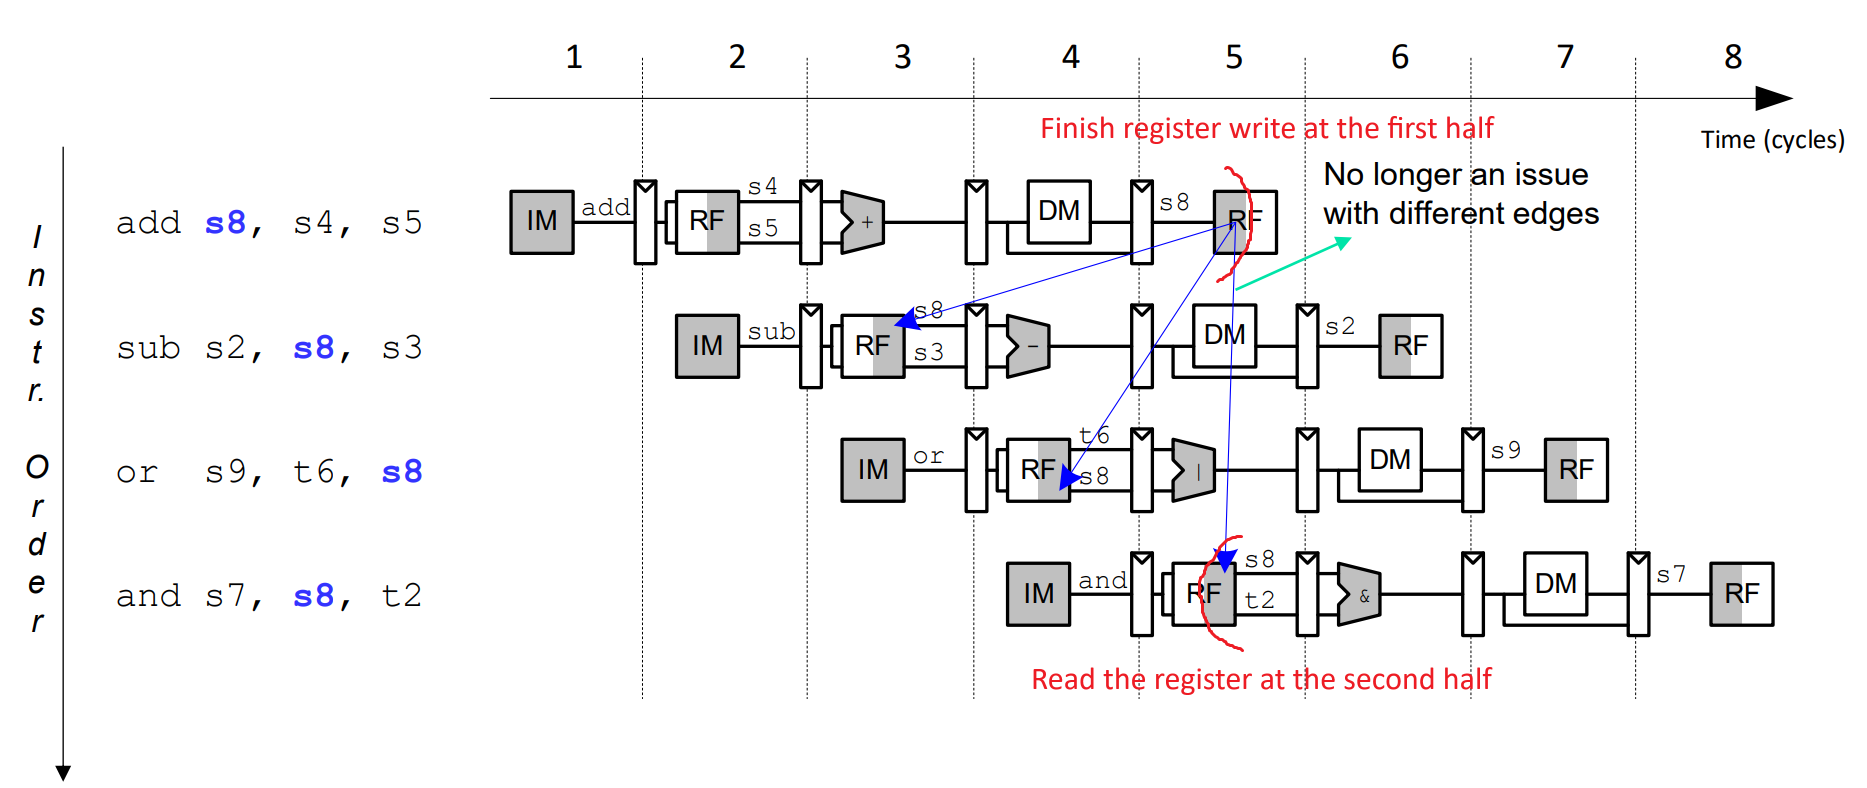
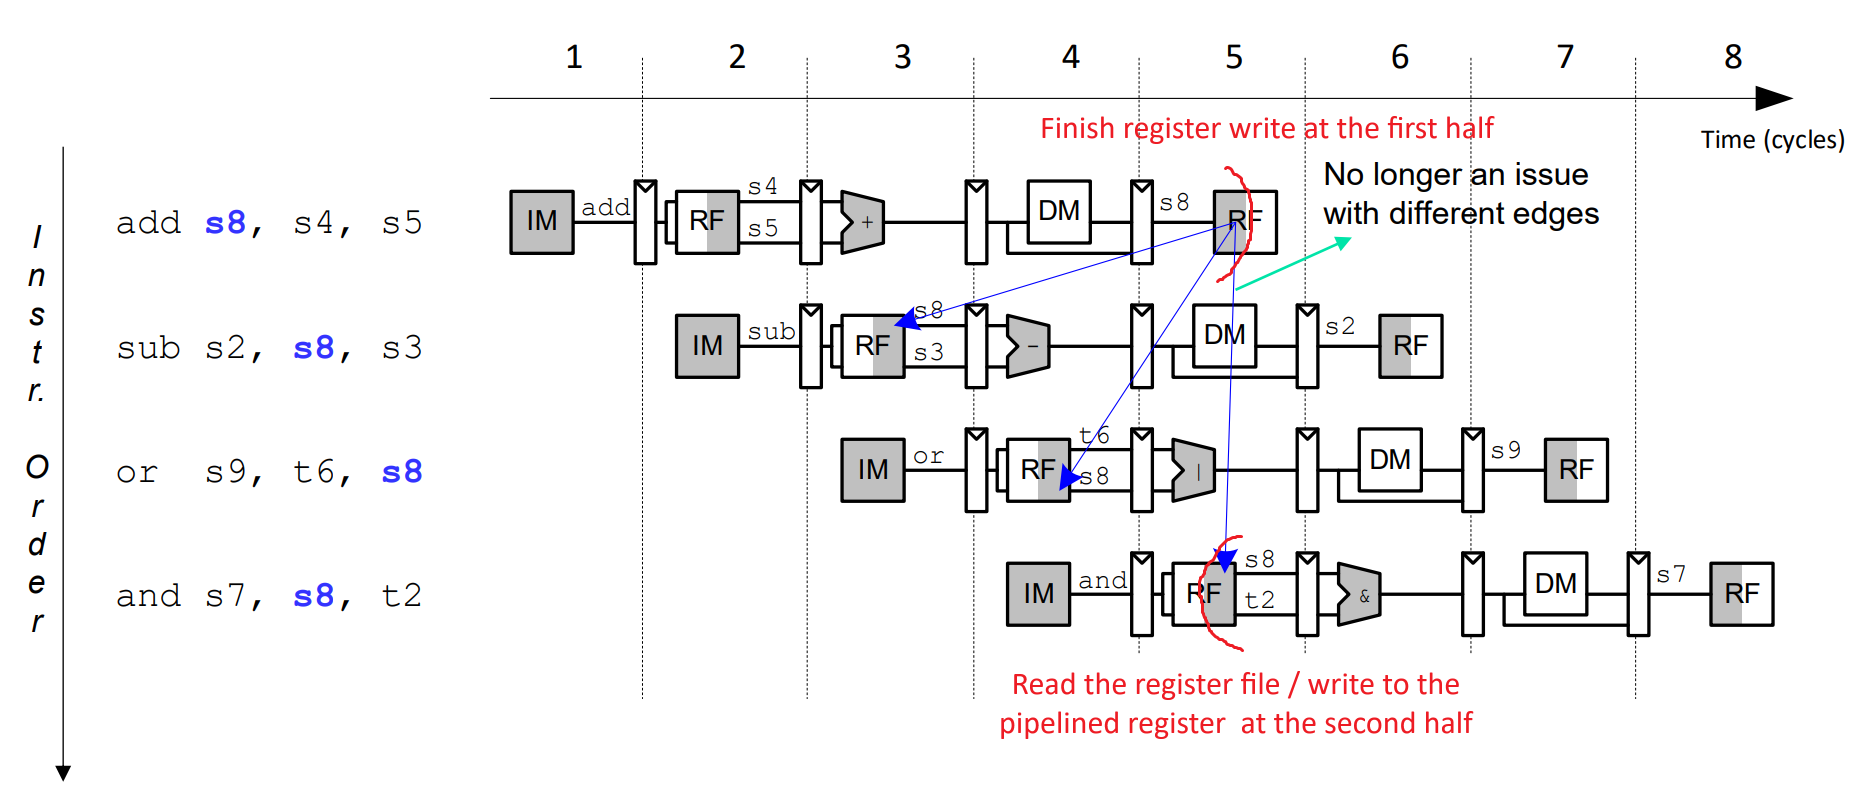
GITBOOK-132: Update first part of data forwarding

Changed region(s): [[0.5281, 0.8528, 0.8077, 0.9442]]

diff --git a/lec/lec-05-the-pipelined-processor.md b/lec/lec-05-the-pipelined-processor.md
@@ -47,7 +47,7 @@ Here, we cannot change IC and CPI, how can we improve the performance? The answe
 
 > In this course, we will use a five-stage pipeline on our processor.
 
-**Pipeling** is to "cut" our microarchitecture[^1] into different **stages** (in our case, it is 5), and each stage takes **one clock cycle** to complete. Thus, the clock cycle time can be decreased largely.
+**Pipelining** is to "cut" our microarchitecture[^1] into different **stages** (in our case, it is 5), and each stage will take **one clock cycle** to complete. Thus, the clock cycle time can be decreased to a large extent.
 
 For example, below is the image showing the fives stages of the `lw` instruction.
 
@@ -69,7 +69,7 @@ After pipelining our processor, the clock cycle diagram to execute the instructi
 
 We can see that after the completion of the clock cycle 5, one instruction is completed every cycle, thus CPI = 1. We also call the first 4 cycles **overhead** as nothing completes during this time.
 
-However, this pipeline isn't perfect, you may notice that **not every instruction** needs the **full 5 stages**. For example, `sw` don't need `WB`, branch and DP Reg/Imm don't need `Mem`, etc. Besides that, there are still some **hazards** we may encouter. (We will see later in this lec)
+However, this pipeline isn't perfect, you may notice that **not every instruction** needs the **full 5 stages**. For example, `sw` doesn't need `WB`, branch and DP Reg/Imm doesn't need `Mem`, etc. Besides, there are still some **hazards** that we may encouter. (We will see later in this lec)
 
 <details>
 
@@ -85,7 +85,7 @@ The reason for this is because in the pipelined processor, your clock cycle time
 
 ## Implement a Pipelined Processor
 
-As we have mentioned above, we need to "cut" our microarchitecture into 5 stages. To do this "cut", we are actually **adding registers** between each stage.
+As we have mentioned above, we need to "cut" our microarchitecture into 5 stages. To do this "cut", we are basically **adding registers** between each stage.
 
 <figure><img src="../.gitbook/assets/cg3207-lec05-implement-cut.jpg" alt=""><figcaption></figcaption></figure>
 
@@ -94,7 +94,7 @@ We have 5 stages, thus we need 4 "cuts"/registers. By adding registers, we can c
 {% hint style="success" %}
 #### Pipeline Register Naming Convention
 
-We name the register by the **target** that it feeds the signal to. For example, the register D is named D because the here the signals coming from the **source** fetch stage go into the **target** dec stage.
+We name the register by the **target** that it feeds the signal to. For example, the register D is named D because the here the signals coming from the **source** fetch stage will go into the **target** dec stage.
 {% endhint %}
 
 The smart you may notice that besides adding 4 registers, we also made some changes to some signals.
@@ -107,7 +107,7 @@ The smart you may notice that besides adding 4 registers, we also made some chan
 
 Several signals, like `RegWrite`, `MemtoReg` etc are delayed. Their names are also changed at each stage by adding the posfix `F, D, E, M, W` depends on which stage the signals are at.
 
-We can think of this delay as, after we "cut" the microarchitecture, we still need to "store" the corresponding Control Unit Signals and the Datapath signals to make sure that the operation done in **each stage** works correctly.
+We can think of this delay as, after we "cut" the microarchitecture, we still need to "store" the corresponding Control Unit signals and the Datapath signals to make sure that the operation done in **each stage** works correctly.
 {% endstep %}
 
 {% step %}
@@ -148,7 +148,7 @@ Pipelining is not perfect, sometimes it can get into troubles. These troubles ar
 
 **Structural harzards** happen when we attempt to use the same resource (usually it is the memory) by two different instructions at the same time.
 
-For example, in the following diagram, at the fourth clock cycle, both the `lw` and `sw` are accessing the same memory as in real life, IROM and DMEM are both in the RAM memory.
+For example, in the following diagram, at the fourth clock cycle, both the `lw` and `sw` are accessing the same memory because in real life, IROM and DMEM are both in the RAM memory.
 
 <figure><img src="../.gitbook/assets/cg3207-lec05-structural-hazard.png" alt=""><figcaption></figcaption></figure>
 
@@ -162,15 +162,15 @@ For example, in the following diagram, the destination register `rd` of the `add
 
 #### Control Hazards
 
-### Handle Pipeline Hazards
+## Handle Pipeline Hazards
 
 In this part, we will introduce how to handle the 3 types of pipeline harzards we have encountered above. As for the sake of this course, we will focus more on the [handling of the data hazards](lec-05-the-pipelined-processor.md#handle-data-hazards).
 
-#### Handle Structural Hazards
+### Handle Structural Hazards
 
 We can simply fix this hazard by using separate instruction and data memory.
 
-#### Handle Data Hazards
+### Handle Data Hazards
 
 To handle data harzards, we will introduce five methods,
 
@@ -196,19 +196,19 @@ Given that, we will summarize the pros and cons of this technique as follows,
   * This technique can help reduce the "troublesome" instructions from 3 to 2 in our example [above](lec-05-the-pipelined-processor.md#data-hazards).
 * **Cons**:
   * It will use 2 edges from the same block and this is a practice discouraged in [CG3207.](https://wenbo-notes.gitbook.io/ddca-notes/lec/lec-02-digital-system-design-and-verilog#use-one-clock-for-the-entire-design)
-  * The half cycle may not be enough for to write the pipeline state register. In other words, reading the value from the register file and write it to a pipeline state register may take longer than half of a clock cycle.
+  * The half cycle may not be enough to write the pipeline state register. In other words, reading the value from the register file and write it to a pipeline state register may take longer than half of a clock cycle.
 
 #### Inserting NOPS
 
 > In RISC-V, we can use `addi x0, x0, 0` as NOP.
 
-The basic idea is that as there exists true data dependency, we can insert NOPs between the instructions that have true data dependency to "delay" the data dependency. So, if we have already implemented the [first technique of using different clock edges](lec-05-the-pipelined-processor.md#use-different-clock-edges), we should make sure the number of NOPs or independent useful instructions is **2** between the two instructions that have true data dependency.
+The basic idea is that when there exists true data dependency between two instructions, we can insert NOPs between the these instructions to "delay" the data "transfer". So, if we have already implemented the [first technique of using different clock edges](lec-05-the-pipelined-processor.md#use-different-clock-edges), we should make sure the number of NOPs or independent useful instructions is **2** between the two instructions that have true data dependency.
 
 {% hint style="warning" %}
-This magic number 2 is dependent on the microarchitecture of our processor.
+This magic number 2 here is dependent on the microarchitecture of the processor. In other words, how many pipline stages you have in your processor.
 {% endhint %}
 
-For example, in the following diagram, `add` and `sub` have true data dependency. We can either insert two NOPs between `add` and `sub` or replace one of the NOPs with the independent useful instruction `orr` instruction.
+For example, in the following diagram, `add` and `sub` have true data dependency. We can either insert two NOPs between `add` and `sub` or replace one of the NOPs with the independent useful instruction `orr`.
 
 <figure><img src="../.gitbook/assets/cg3207-lec05-inserting-nops-example.png" alt=""><figcaption></figcaption></figure>
 
@@ -218,9 +218,75 @@ Now, we can summarize the pros and cons of this technique
   * It is easier to implement as the NOPs are inserted by the compiler during the compile time.
 * **Cons**:
   * Insert NOPs will **waste code memory**.
-  * As NOPs will do nothing, we won't treat them as real instructions when calculating the CPI. Thus,  with more clock cycles and the same number of useful instructions, the **CPI will increase** and thus increase our CPU Time.
+  * As NOPs will do nothing, we won't treat them as real instructions when calculating the CPI. Thus, with more clock cycles and the same number of useful instructions, the **CPI will increase** and thus increase our CPU Time.
   * To know the number of NOPs or independant useful instructions to be inserted, the compiler needs to know the microarchitecture, like how many stages are in your pipeline processor and have you used different clock edges to write to register file and pipeline state registers, etc. This will make the code not very **portable**.
+
+#### Data Forwarding
+
+> This is the most challenging technique when we deal with the data hazard.
+
+The basic idea in data forwarding is that the data is available on some pipeline register before it is written back to the register file (RF). So, we can take that data from where it is present, and pass it to where it is needed.
+
+This kind of forwarding logic can be used in two stages/functional unit:
+
+* Execution Stage, or the two sources or ALU
+* Memory Stage, or the DMEM
+
+{% stepper %}
+{% step %}
+#### Execution Stage
+
+In the execution stage, we can check if register read ([rs1E and rs2E](#user-content-fn-3)[^3]) by the instruction which is currently in Execute stage [**matches**](#user-content-fn-4)[^4] the register written ([rdM or rdW](#user-content-fn-5)[^5]) by the instruction which is currently in Memory or Writeback Stage. If so, we forward the **ready result** (usually is the ALUResult at Memory or Writeback Stage), and now the input to ALU comes from M or W stage rather than the E stage register.
+
+For example, we can see how the above forward logic works in the following graph,
+
+<figure><img src="../.gitbook/assets/cg3207-lec05-data-forwarding-e-stage.png" alt=""><figcaption></figcaption></figure>
+
+Suppose we have applied the [#use-different-clock-edges](lec-05-the-pipelined-processor.md#use-different-clock-edges "mention") technique, now the `add` instruction has true data dependency with the `sub` and `or` instruction.
+
+* In the `sub` instruction's E stage, we notice it needs `rs1E` to be the register `s8`. In the `add` instruction, its `rdM` in the M stage is register `s8` and it mathces with `rs1E`. Thus, we can forward  the ready ALUResult from `add` instruction's M stage to the E stage of the `sub` instruction.
+* Similarly, in the `or` instruction's E stage, it needs `rs2E` to be the register `s8`. In the `add` instruction, its `rdW` in the W stage is register `s8` and it mathces with `rs2E`. Thus, we can forward the ready ALUResult (In W stage, it is ResultW) to the E stage of the `or` instruction.
+
+To implement this fowarding logic, we will add **Hazard Unit** shown as follows in our microarchitecture to handle specifically handle the hazard.
+
+<figure><img src="../.gitbook/assets/cg3207-lec05-data-forwarding-e-stage-unit.png.jpg" alt=""><figcaption></figcaption></figure>
+
+`rs1/2E`, `rdM/W` and `RegWriteM/W` are easy to pass as the **input** to the Hazard Unit, but the **output** `ForwardA/BE` which are used to control the multiplexer for the ALU SrcA and SrcB should follow exactly the following three cases
+
+{% code lineNumbers="true" %}
+```verilog
+// rs1E
+if ((rs1E == rdM) && RegWriteM && (rdM != 0))      // Case 1
+    ForwardAE = 2'b10;
+else if ((rs1E == rdW) && RegWriteW && (rdW != 0)) // Case 2
+    ForwardAE = 2'b01;
+else                                               // Case 3
+    ForwardAE = 2'b00;
+
+// rs2E is similar, just replace rs1E with rs2E
+if ((rs1E == rdM) && RegWriteM && (rdM != 0))
+    ForwardBE = 2'b10;
+else if ((rs1E == rdW) && RegWriteW && (rdW != 0))
+    ForwardBE = 2'b01;
+else
+    ForwardBE = 2'b00;
+```
+{% endcode %}
+
+* Condition 1 is about the **match**.
+* Condition 2 `RegWriteM/W` ensures that the instruction (in our example, `add`) really **writes to the register**. If not (like `sw`, `branch`), there won't be any **data hazard**, thus no need to do data forwarding.
+* Condition 3 `rdM/W ≠ 0` ensures that we are **not forwarding** from the `x0` register as there is no need to do so.
+
+In total, we need 2 x 2 + 2 = 6, 5-bit comparators to do this data forwarding. `rs1/2E` each needs two comparators (2 x 2 = 4) and `rdM/W` needs another 2 but the can share result to another `Forward1/2E` signal.&#x20;
+{% endstep %}
+{% endstepper %}
 
 [^1]: including the Control Unit and Datapaths
 
 [^2]: Write to pipeline registers can be thought of as **reading** or **updating** the pipelined registers' values.
+
+[^3]: `rs` is different from `RD`. `rs` stores the **index** of the register we want to read, e.g., if `rs1 = 1`, means we want to read from `x1` register. However, `RD` stores the **value** that we read from `rs` index register. e.g., If `rs1 = 1`, then `RD1` will store the value in register `x1`.
+
+[^4]: "matches" just means whether `rs1E` or `rs2E` is **equal** to `rdM` or `rdW`.
+
+[^5]: Similar as the `rs1` and `rs2`, `rd` stores the **index** of the register we want to write to. In other words, the destination register. And its correponding `WD` will store the **value** we will write to the `rd` register.
